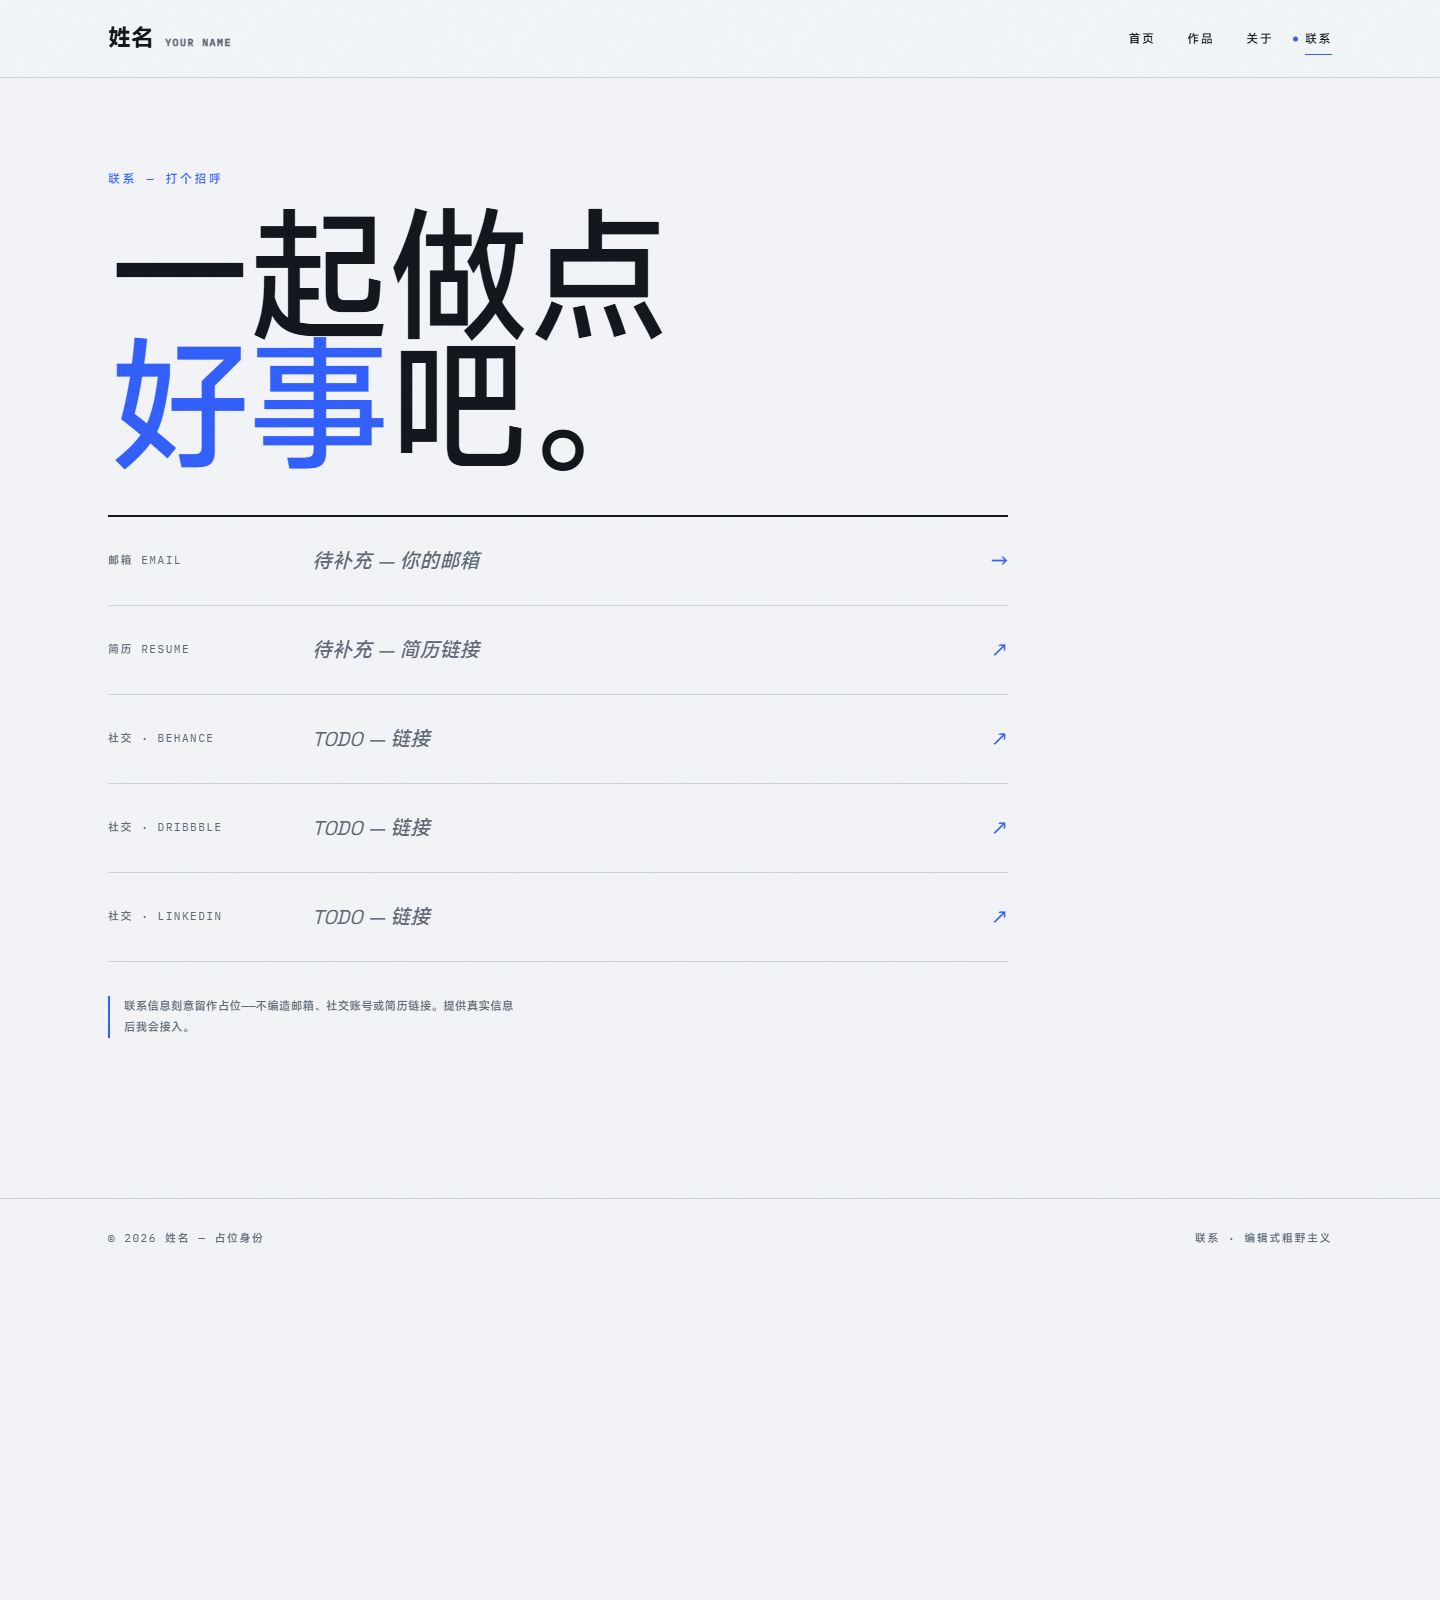
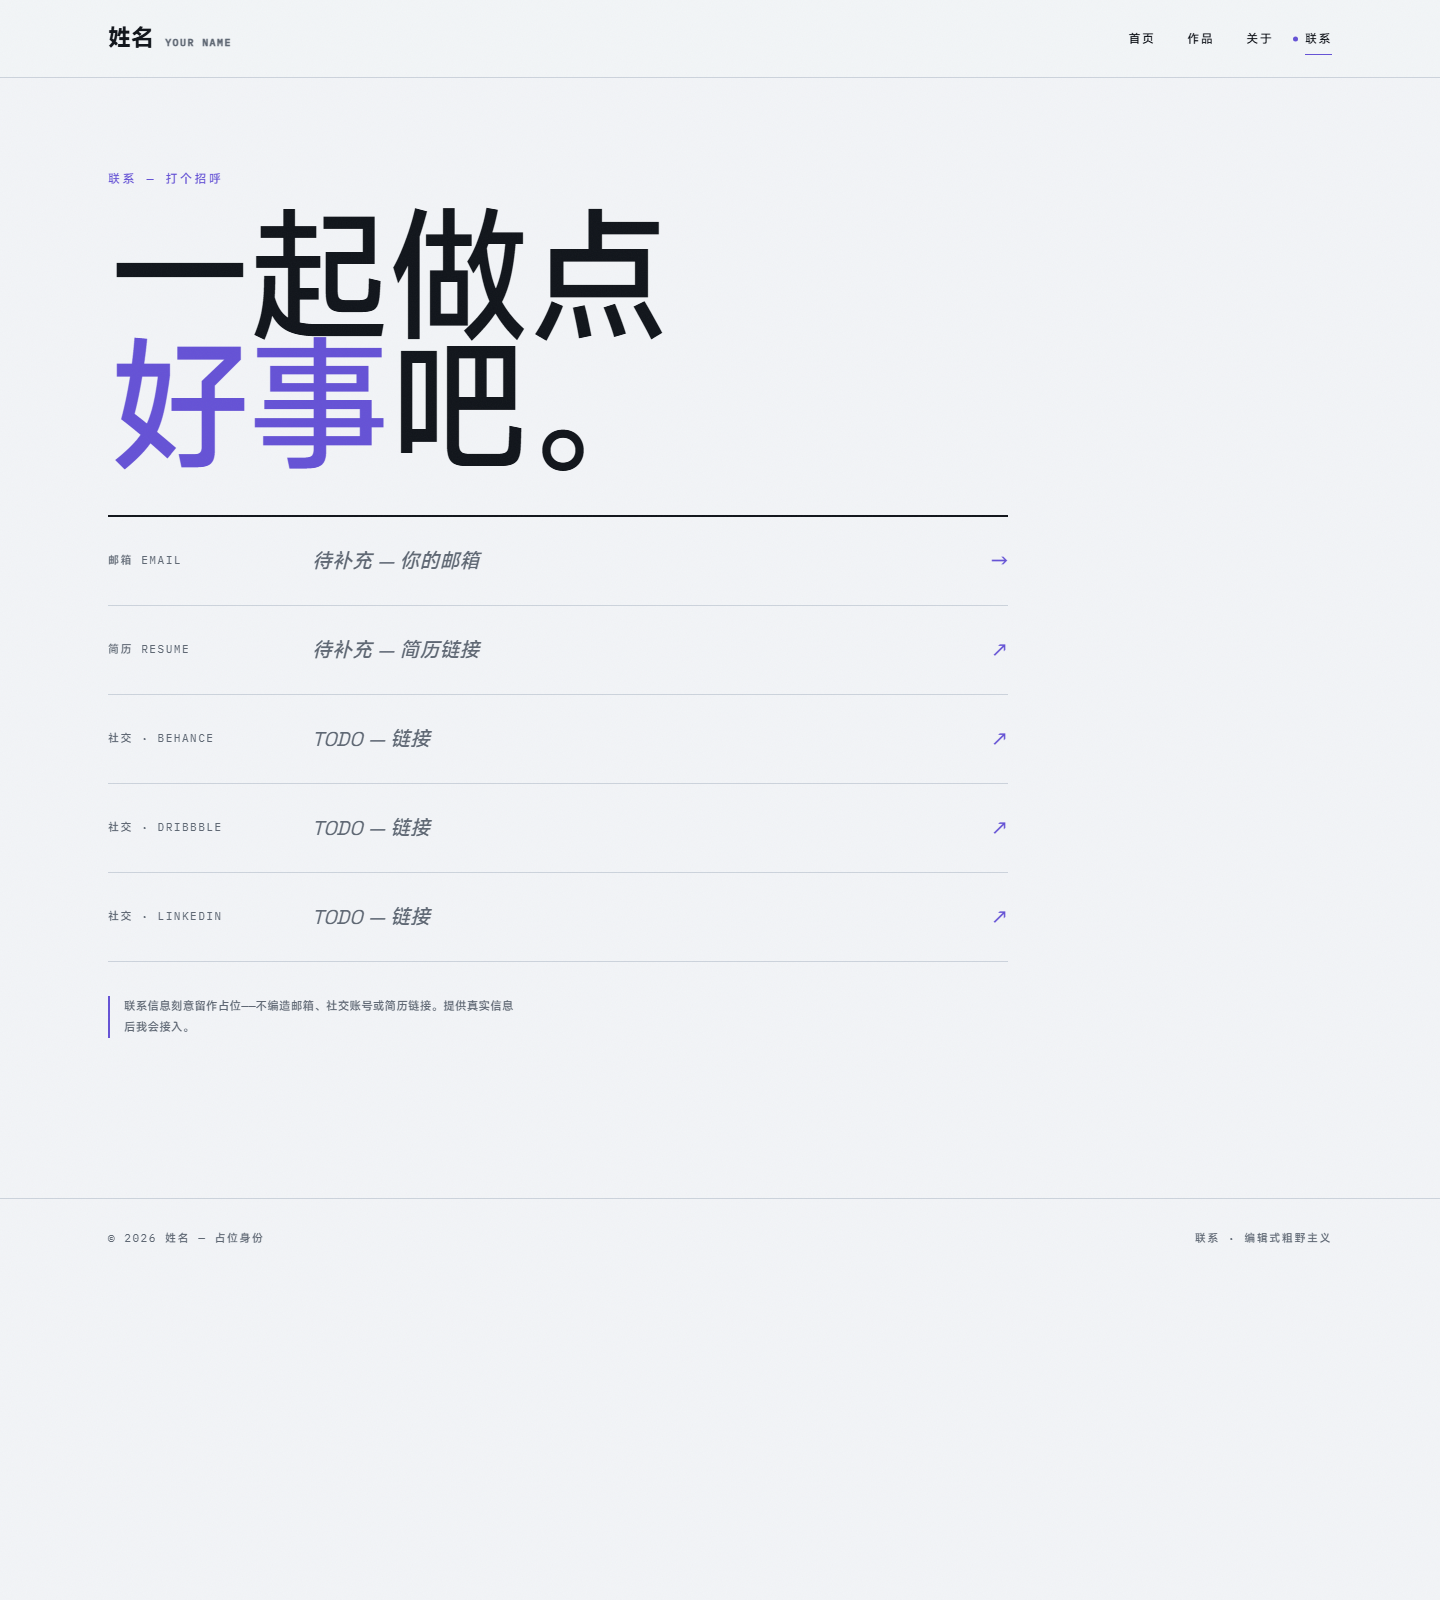
feat(brand): lock Hero A + Modern Iris accent (cool, sans-only)
- Accent -> Modern Iris #6552D6 (+hover/soft/on-accent); remove electric blue
- Hero A refined (tightening, label baseline, meta density); Hero B retired as formal
- Selected Works phone-band crop/gap tuning; cover/text balance
- CINIS case study: accent section numbering (brand tokens applied, refinement in progress)
- 3-way purple comparison page; docs updated (direction/tokens/CJK)
- Verified AA; 1440/1024/768/390 renders

Changed region(s): [[0.0625, 0.2188, 0.2812, 0.3125]]

diff --git a/experiments/art-direction/direction-b-modern-editorial/_color-compare.html b/experiments/art-direction/direction-b-modern-editorial/_color-compare.html
@@ -1,0 +1,88 @@
+<!doctype html>
+<html lang="zh-CN">
+<head>
+<meta charset="utf-8"><meta name="viewport" content="width=device-width,initial-scale=1">
+<title>Accent Comparison — Vivid Violet / Modern Iris / Deep Indigo</title>
+<script>document.documentElement.className+=' js';</script>
+<link rel="preconnect" href="https://fonts.googleapis.com"><link rel="preconnect" href="https://fonts.gstatic.com" crossorigin>
+<link href="https://fonts.googleapis.com/css2?family=Space+Grotesk:wght@400;500;600;700&family=Inter:wght@300;400;500;600;700&family=IBM+Plex+Mono:wght@400;500&display=swap" rel="stylesheet">
+<link href="https://fonts.googleapis.com/css2?family=Noto+Sans+SC:wght@400;500;700&display=swap" rel="stylesheet">
+<link rel="stylesheet" href="https://cdn.jsdelivr.net/npm/misans@5.0.0/lib/Normal/MiSansVF.min.css">
+<link rel="stylesheet" href="style.css">
+<style>
+  .cwrap{max-width:1240px;margin:0 auto;padding:34px 48px 60px}
+  .clabel{font-family:var(--font-mono);font-size:12px;letter-spacing:.16em;text-transform:uppercase;color:var(--color-accent);margin-bottom:18px;display:flex;gap:10px;align-items:baseline}
+  .clabel b{color:var(--text);font-weight:500}
+  .cbar{height:10px;width:100%;background:var(--color-accent);border-radius:2px;margin-bottom:26px}
+  .cmininav{display:flex;justify-content:space-between;align-items:center;border-bottom:1px solid var(--line);padding-bottom:14px;margin-bottom:26px}
+  .cmininav .brand{font-family:var(--font-zh);font-weight:700;font-size:18px}
+  .cmininav nav{display:flex;gap:22px;font-family:var(--font-mono);font-size:11px;letter-spacing:.12em;text-transform:uppercase}
+  .cmininav nav a{color:var(--text2)}
+  .cmininav nav a.on{color:var(--color-accent);position:relative}
+  .cmininav nav a.on::after{content:"";position:absolute;left:0;right:0;bottom:-15px;height:2px;background:var(--color-accent)}
+  .chero .t{font-family:var(--font-zh);font-weight:700;letter-spacing:-.02em;line-height:1.0;margin:0}
+  .chero .t .l1{display:block;font-weight:500;font-size:clamp(34px,5.6vw,84px)}
+  .chero .t .l2{display:block;font-size:clamp(42px,7.4vw,104px)}
+  .chero .t .l3{display:block;font-size:clamp(38px,6.6vw,96px)}
+  .chero .t .hl{color:var(--color-accent)}
+  .chero .t .mix{font-family:var(--font-heading);font-weight:500;font-size:.24em;letter-spacing:.05em;color:var(--text2);margin-left:.6em}
+  .crow{display:grid;grid-template-columns:1fr 1fr 1fr;gap:22px;margin-top:34px;align-items:start}
+  .sample{border:1px solid var(--line);padding:18px;background:var(--surface)}
+  .sample .k{font-family:var(--font-mono);font-size:10px;letter-spacing:.12em;text-transform:uppercase;color:var(--text2);margin-bottom:12px}
+  .num-demo{font-family:var(--font-mono);font-size:34px;color:var(--color-accent);letter-spacing:.02em}
+  .btn-solid-demo{display:inline-flex;align-items:center;gap:10px;background:var(--color-accent);color:var(--color-on-accent);font-family:var(--font-mono);font-size:12px;letter-spacing:.12em;text-transform:uppercase;padding:13px 22px;border:0}
+  .btn-hover-demo{display:inline-flex;align-items:center;gap:10px;background:var(--color-accent-hover);color:var(--color-on-accent);font-family:var(--font-mono);font-size:12px;letter-spacing:.12em;text-transform:uppercase;padding:13px 22px;border:0}
+  .link-demo{font-family:var(--font-zh);font-size:15px;color:var(--color-accent);border-bottom:1.5px solid var(--color-accent);padding-bottom:3px}
+  .title-hover{font-family:var(--font-zh);font-weight:700;font-size:24px;color:var(--color-accent);margin:0}
+  .focus-demo{display:inline-block;font-family:var(--font-mono);font-size:12px;padding:10px 16px;border:1.5px solid var(--color-accent);color:var(--text);outline:2px solid var(--color-accent);outline-offset:3px}
+  .soft-block{background:var(--color-accent-soft);padding:18px;border:1px solid var(--color-border)}
+  .soft-block .h{font-family:var(--font-zh);font-weight:600;font-size:15px;color:var(--text);margin:0 0 6px}
+  .soft-block p{font-family:var(--font-zh);font-size:13px;line-height:1.75;color:var(--text2);margin:0}
+  .statline{display:flex;justify-content:space-between;font-family:var(--font-mono);font-size:11px;letter-spacing:.1em;color:var(--text2);border-top:1px solid var(--line);margin-top:26px;padding-top:12px}
+</style>
+</head>
+<body>
+<div class="cwrap">
+  <div class="clabel">Accent test · <b id="cname">Modern Iris</b> <span id="chex" style="color:var(--color-accent)"></span></div>
+  <div class="cbar"></div>
+
+  <div class="cmininav">
+    <div class="brand">姓名</div>
+    <nav><a href="#">首页</a><a class="on" href="#">作品</a><a href="#">关于</a><a href="#">联系</a></nav>
+  </div>
+
+  <div class="chero">
+    <div class="en" style="font-family:var(--font-mono);font-size:11px;letter-spacing:.14em;text-transform:uppercase;color:var(--text2);margin-bottom:16px">UI/UX &amp; 产品设计师 — 强调色测试</div>
+    <h1 class="t"><span class="l1">设计，</span><span class="l2">让复杂</span><span class="l3">变得<span class="hl">清晰</span>。<span class="mix">DESIGN · CLARITY</span></span></h1>
+  </div>
+
+  <div class="crow">
+    <div class="sample"><div class="k">中文大标题 / Keyword</div><div class="num-demo">01</div><div style="font-family:var(--font-zh);font-weight:700;font-size:22px;margin-top:10px">清晰的<span class="hl" style="color:var(--color-accent)">结构</span></div></div>
+    <div class="sample"><div class="k">交互按钮 · 常态 / Hover</div><div style="display:flex;flex-direction:column;gap:10px"><span class="btn-solid-demo">开始对话 →</span><span class="btn-hover-demo">Hover 状态 →</span></div></div>
+    <div class="sample"><div class="k">导航激活 · 序号 · 链接</div><div style="display:flex;flex-direction:column;gap:12px"><span class="link-demo">查看案例 →</span><div class="num-demo" style="font-size:22px">02 — 产品设计</div></div></div>
+    <div class="sample"><div class="k">Hover 反馈（标题转色 + 下划线）</div><p class="title-hover">CINIS</p><div style="height:2px;background:var(--color-accent);width:60px;margin-top:8px"></div></div>
+    <div class="sample"><div class="k">Focus Ring</div><span class="focus-demo">键盘聚焦示例</span></div>
+    <div class="sample"><div class="k">浅紫背景上的信息块</div><div class="soft-block"><p class="h">信息块标题</p><p>浅紫底上的正文：务必保证深色文字可读（正文 #11151B，辅助 #5E6773）。</p></div></div>
+  </div>
+
+  <div class="statline"><span id="cmeta">AA 检查见报告</span><span>Direction B · Modern Editorial / Accent Test</span></div>
+</div>
+
+<script>
+  var MAP={
+    vivid:{name:'Vivid Violet',hex:'#6246EA',hover:'#4E36D8',soft:'#ECE8FF'},
+    iris:{name:'Modern Iris',hex:'#6552D6',hover:'#5946C8',soft:'#EAE6FF'},
+    indigo:{name:'Deep Indigo',hex:'#5946C8',hover:'#493BB4',soft:'#E6E2F8'}
+  };
+  var q=new URLSearchParams(location.search); var key=q.get('c')||'iris';
+  var m=MAP[key]||MAP.iris;
+  var r=document.documentElement.style;
+  r.setProperty('--color-accent',m.hex);
+  r.setProperty('--color-accent-hover',m.hover);
+  r.setProperty('--color-accent-soft',m.soft);
+  document.getElementById('cname').textContent=m.name;
+  document.getElementById('chex').textContent=m.hex;
+  document.getElementById('cmeta').textContent=m.name+' · '+m.hex;
+</script>
+</body>
+</html>

diff --git a/experiments/art-direction/direction-b-modern-editorial/style.css b/experiments/art-direction/direction-b-modern-editorial/style.css
@@ -4,7 +4,8 @@
    ============================================================ */
 :root{
   /* === Unified semantic color tokens (cool, Direction B — Modern Editorial) === */
-  --color-bg:#F2F4F7; --color-surface:#E8ECF1; --color-text:#11151B; --color-text-secondary:#5E6773; --color-border:#CCD3DC; --color-accent:#315EFB; --color-accent-soft:#E3EAFE;
+  --color-bg:#F2F4F7; --color-surface:#E8ECF1; --color-text:#11151B; --color-text-secondary:#5E6773; --color-border:#CCD3DC;
+  --color-accent:#6552D6; --color-accent-hover:#5946C8; --color-accent-soft:#EAE6FF; --color-on-accent:#FFFFFF;
   --base:var(--color-bg); --surface:var(--color-surface); --text:var(--color-text); --text2:var(--color-text-secondary);
   --accent:var(--color-accent); --line:var(--color-border); --ink:var(--color-text);
   --accent-blue:var(--color-accent); --accent-soft:var(--color-accent-soft);
@@ -138,8 +139,8 @@ em{font-style:italic}
 .btn{display:inline-flex;align-items:center;gap:12px;font-family:var(--mono);font-size:12px;letter-spacing:.14em;
   text-transform:uppercase;border:1.5px solid var(--ink);padding:16px 30px;transition:background var(--dur-2),color var(--dur-2),gap var(--dur-2)}
 .btn:hover{background:var(--ink);color:var(--base);gap:20px}
-.btn.solid{background:var(--accent);border-color:var(--accent);color:#fff}
-.btn.solid:hover{background:#2749C9;border-color:#2749C9;color:#fff}
+.btn.solid{background:var(--accent);border-color:var(--accent);color:var(--color-on-accent)}
+.btn.solid:hover{background:var(--color-accent-hover);border-color:var(--color-accent-hover);color:var(--color-on-accent)}
 .footer{border-top:1px solid var(--line);padding:30px 0;display:flex;justify-content:space-between;flex-wrap:wrap;gap:14px}
 .footer .wrap{display:flex;justify-content:space-between;flex-wrap:wrap;gap:14px;width:100%}
 /* ================= WORKS PAGE ================= */
@@ -506,7 +507,26 @@ a:focus-visible,button:focus-visible,.filters button:focus-visible{outline:2px s
 @media(max-width:1024px){.feature .layout{grid-template-columns:1fr;gap:22px}.dup,.exp2{grid-template-columns:1fr}}
 
 /* CINIS feature cover — real 3-screen UI band */
-.phones-band{aspect-ratio:16/9;background:var(--accent-soft);border:1px solid var(--color-border);overflow:hidden;display:flex;align-items:flex-end;justify-content:center;gap:3%;padding:4.5% 4.5% 0}
-.phones-band img{width:28%;height:auto;border:1px solid var(--color-border);border-radius:8px;box-shadow:0 12px 26px rgba(17,21,27,.12);background:#fff;display:block}
-.phones-band img:nth-child(2){transform:translateY(-7%)}
+.phones-band{aspect-ratio:16/9;background:var(--accent-soft);border:1px solid var(--color-border);overflow:hidden;display:flex;align-items:flex-end;justify-content:center;gap:3.5%;padding:3% 3% 0}
+.phones-band img{width:25%;height:auto;border:1px solid var(--color-border);border-radius:8px;box-shadow:0 12px 26px rgba(17,21,27,.12);background:#fff;display:block}
+.phones-band img:nth-child(2){transform:translateY(-4%)}
 @media(max-width:640px){.phones-band{gap:2%;padding:3% 3% 0}.phones-band img{border-radius:5px}}
+
+/* ===== Phase 06 — accent aliases + Hero A refine ===== */
+:root{--accent-hover:var(--color-accent-hover);--on-accent:var(--color-on-accent);--accent-soft:var(--color-accent-soft)}
+.hx-title{line-height:1.0}
+
+.hx-a .hx-title .l1{font-size:clamp(36px,6.2vw,92px);font-weight:500}
+.hx-a .hx-title .l2{font-size:clamp(44px,8.2vw,116px);margin-top:0}
+.hx-a .hx-title .l3{font-size:clamp(40px,7.2vw,104px)}
+.hx-a .hx-title .mix{display:inline-block;margin-left:.7em;position:relative;top:-.08em}
+.hx-a .rule{margin-top:20px}
+.hx-foot{padding:28px 0;margin-top:26px;gap:32px}
+.hx-foot .lede{max-width:36ch}
+.hx-foot .meta{font-size:12.5px;gap:7px 16px}
+.hx-foot .side{gap:12px}
+
+/* ===== CINIS case study — light refinement (Phase 06, in progress) ===== */
+.cs-marker .mono{color:var(--color-accent);font-weight:500}
+.cs-body{padding-top:56px}
+.cs .pull{border-left-color:var(--color-accent);color:var(--color-accent)}

diff --git a/docs/DESIGN-TOKENS-DRAFT.md b/docs/DESIGN-TOKENS-DRAFT.md
@@ -14,10 +14,12 @@
 | `--color-text` | `#11151B` | primary text | **16.62:1** on bg · 15.43 on surface — AAA |
 | `--color-text-secondary` | `#5E6773` | secondary text / captions | **5.20:1** on bg · 4.83 on surface — AA ✅ |
 | `--color-border` | `#CCD3DC` | hairlines, borders | decorative |
-| `--color-accent` | `#315EFB` | emphasis, links, active, key words | **4.62:1** on bg — AA ✅ (large text ≥3 on surface 4.29) |
-| `--color-accent-soft` | `#E3EAFE` | soft accent fills (cover band) | — |
+| `--color-accent` | `#6552D6` | Modern Iris — emphasis, links, active, key words | **5.11:1** on bg — AA ✅ |
+| `--color-accent-hover` | `#5946C8` | accent hover/active | — |
+| `--color-accent-soft` | `#EAE6FF` | soft accent fills (cover band) | text on it 15.05:1 · secondary 4.71:1 — AA ✅ |
+| `--color-on-accent` | `#FFFFFF` | text on accent fill | 5.63:1 — AA ✅ |
 
-**Rules:** single accent = electric blue `#315EFB`. Terracotta/warm paper **removed**. For small accent text sitting on `surface`, use `--color-text` (or a darker accent) to keep AA — implemented on code chips.
+**Rules:** single accent = **Modern Iris `#6552D6`** (cool violet). Terracotta/warm paper/electric-blue **removed**. Accent-on-soft is 4.63:1 and accent-on-surface 4.74:1 — both AA; small accent text on surface uses `--color-text` on `--color-accent-soft` where needed.
 **Preserved:** CINIS's own product palette (orange `#FF7A1A` + mode themes) stays **inside the case study** — not overridden by the portfolio theme.
 
 ---
@@ -90,13 +92,14 @@ Numbers `font-variant-numeric: tabular-nums`; project numbers in IBM Plex Mono. 
 Applied only to: Hero Text Reveal · Project Image Reveal · Hover Feedback · Nav Active Indicator · Scroll Section Reveal. `prefers-reduced-motion` collapses all. No `transition: all`.
 
 ## 5. Component tokens
-- Button solid: accent fill, white text; hover darken `#2749C9`.
-- Link / keyword: accent `#315EFB`.
+- Button solid: accent fill, `--color-on-accent` text; hover `--color-accent-hover` (`#5946C8`).
+- Link / keyword: accent `#6552D6`.
 - Section marker: mono `NN ·`, secondary.
 - Tags/chips: 1px border `--color-border`, mono uppercase, secondary text.
 - Cover band: `--color-accent-soft` bg with real UI phones.
 
 ## 6. Confirm / TODO
-1. Hero copy 「设计，让复杂变得清晰。」 pending your confirmation.
+1. **Hero locked: Version A** (左侧锚定·紧凑). Hero B retired as formal option.
+2. Hero copy 「设计，让复杂变得清晰。」 pending confirmation.
 2. MiSans 800/Heavy & HarmonyOS full weights (optional).
 3. Real identity / contact / PES-MOVA assets.

diff --git a/docs/DESIGN-DIRECTION.md b/docs/DESIGN-DIRECTION.md
@@ -7,11 +7,11 @@
 | Axis | Decision |
 |---|---|
 | Direction | **Direction B — Modern Editorial** |
-| Hero | **Bold** |
+| Hero | **Bold — Version A（左侧锚定·紧凑）· 已锁定** |
 | Background | **Cool** (cool light gray, not warm paper) |
 | Typography | **Sans-serif only** (no serif, ever) |
 | Language | **Chinese-first / bilingual-ready** |
-| Accent | **Electric blue** (single accent) |
+| Accent | **Modern Iris** 冷调鸢尾紫（single accent） |
 
 **Banned / retired:** Fraunces, Georgia, Times, any serif; warm paper (`#F6F1E8`) as global background; terracotta (`#A8442A`) as global accent; any unconfirmed "hybrid B+" spec.
 
@@ -24,8 +24,10 @@
 | `--color-text` | `#11151B` | primary text |
 | `--color-text-secondary` | `#5E6773` | secondary text, captions |
 | `--color-border` | `#CCD3DC` | hairlines, borders |
-| `--color-accent` | `#315EFB` | emphasis, links, active, key words |
-| `--color-accent-soft` | `#E3EAFE` | soft accent fills (e.g., cover band) |
+| `--color-accent` | `#6552D6` | Modern Iris — emphasis, links, active, key words |
+| `--color-accent-hover` | `#5946C8` | accent hover/active |
+| `--color-accent-soft` | `#EAE6FF` | soft accent fills (e.g., cover band) |
+| `--color-on-accent` | `#FFFFFF` | text on accent fill |
 
 All components read from these semantic tokens — no hard-coded palette in rules.
 

diff --git a/docs/CHINESE-TYPOGRAPHY-SPEC.md b/docs/CHINESE-TYPOGRAPHY-SPEC.md
@@ -33,7 +33,7 @@ Mobile: Hero 42–64 / H1 36–48 / H2 28–36 / H3 20–24 / Body 15–16 / Cap
 Chinese MiSans first · Latin Space Grotesk/Inter · numbers `tabular-nums` (project numbers in IBM Plex Mono) · normal Chinese punctuation · don't mirror every block bilingually (English = auxiliary label).
 
 ## 7. Color interaction
-Single accent = **electric blue `#315EFB`** (links, active, key words, incl. hero 「清晰」). No terracotta. Soft accent `#E3EAFE` for cover bands. See `DESIGN-TOKENS-DRAFT.md`.
+Single accent = **Modern Iris 冷调鸢尾紫 `#6552D6`** (links, active, key words, incl. hero 「清晰」); hover `#5946C8`; soft `#EAE6FF` for cover bands; on-accent white. No terracotta, no electric blue. See `DESIGN-TOKENS-DRAFT.md`.
 
 ## 8. Loading (WOFF2 / performance)
 - **MiSans:** `https://cdn.jsdelivr.net/npm/misans@5.0.0/lib/Normal/MiSansVF.min.css` — variable + **unicode-range subsetted**: only used-character subset files download; `font-display:swap`.
